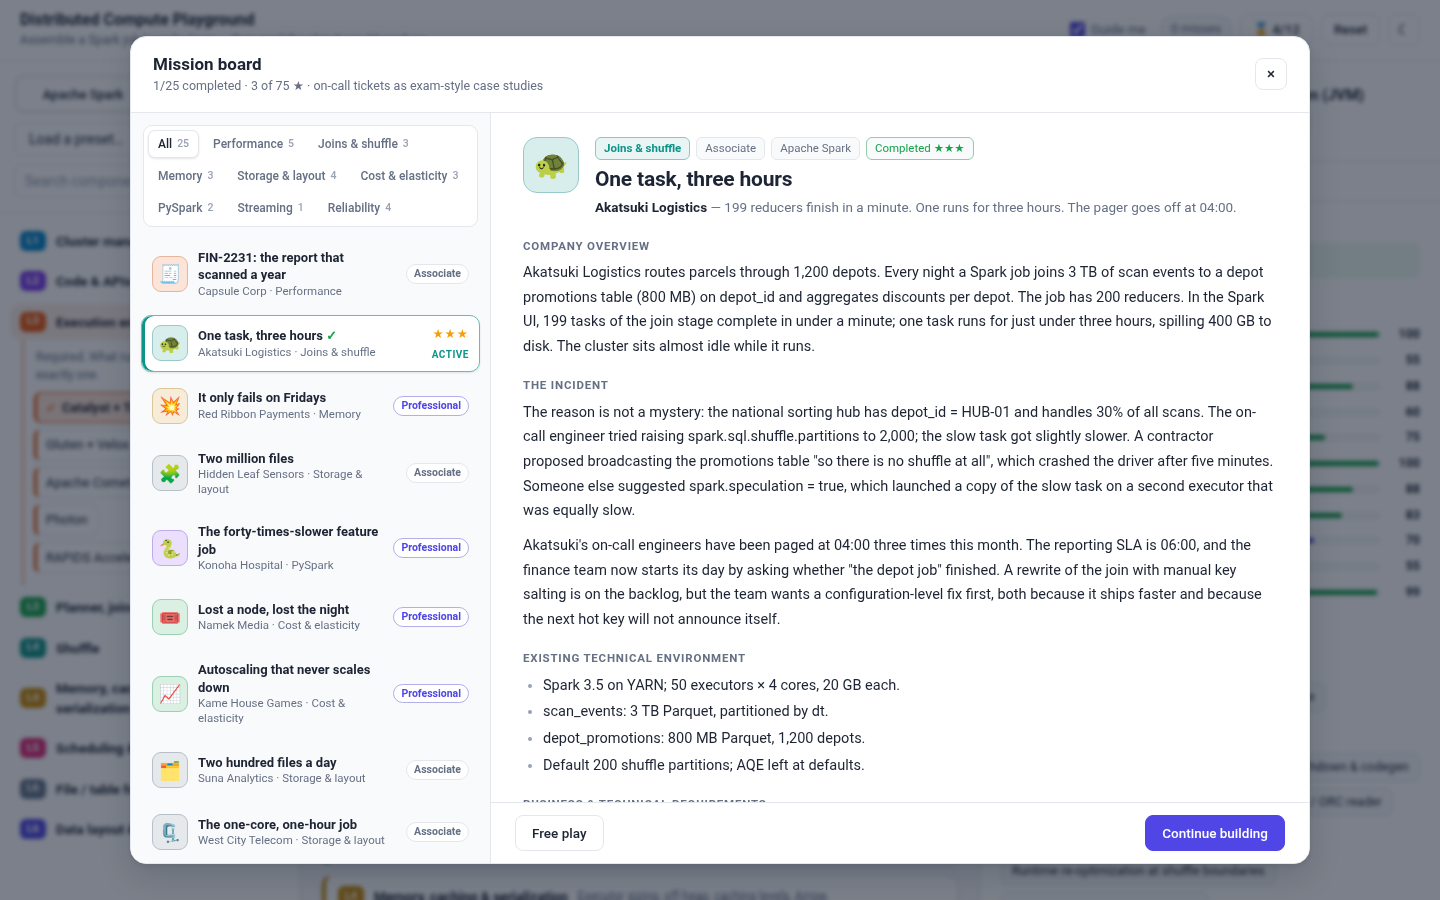
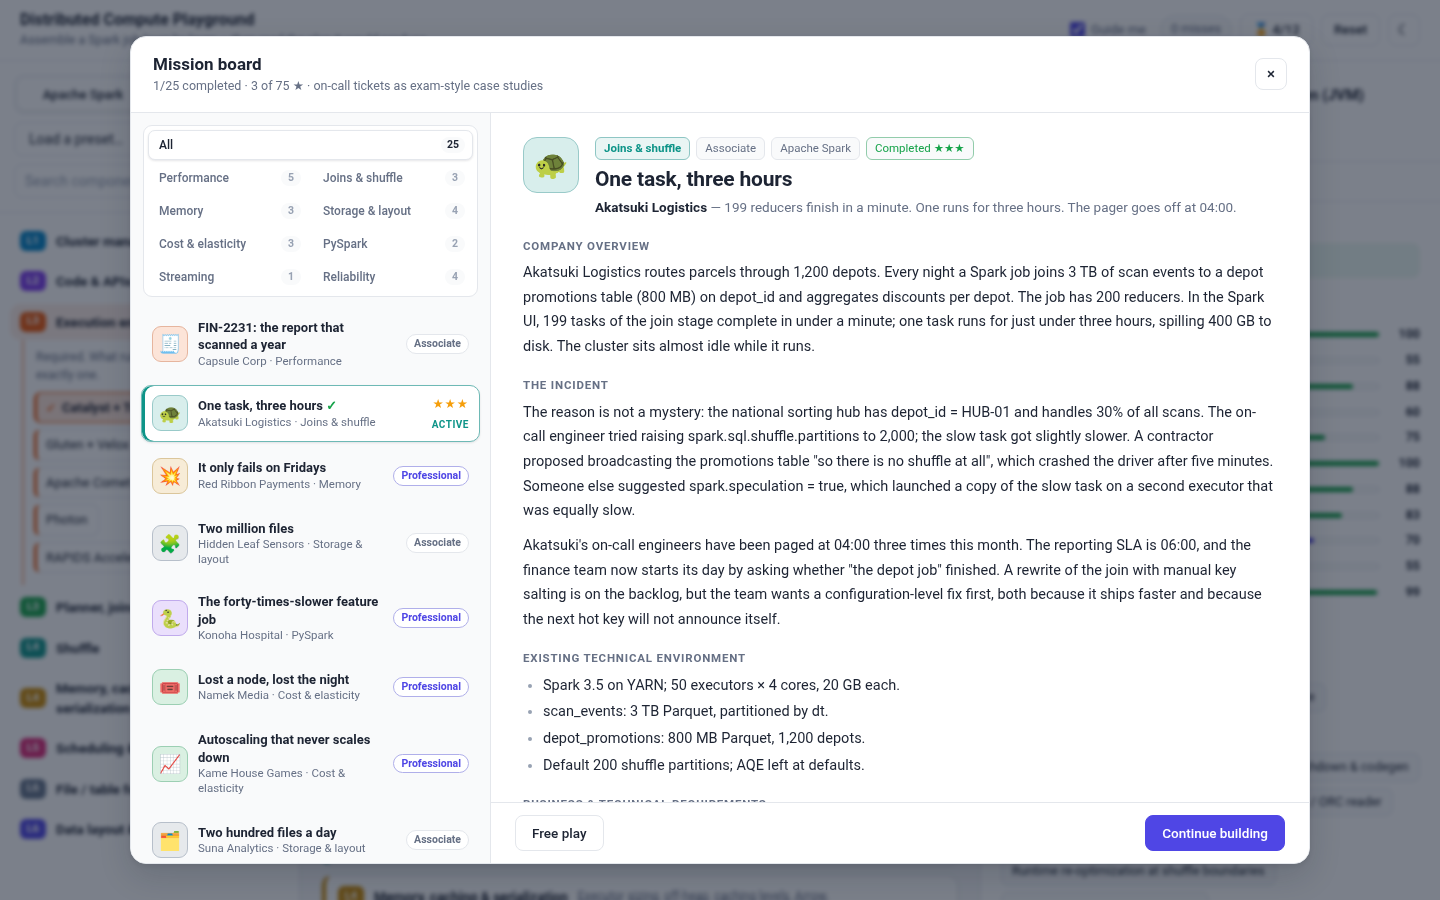
Mission board: align category filters in a 2-column grid
The category chips wrapped into ragged rows. They now sit in an aligned
two-column grid with 'All' spanning the first row and counts rendered as
right-aligned pills.

diff --git a/src/styles/app.css b/src/styles/app.css
@@ -237,10 +237,13 @@ p { margin: 0; }
 .dlg-body { flex: 1; min-height: 0; display: grid; grid-template-columns: 360px 1fr; }
 
 .mlist { display: flex; flex-direction: column; min-height: 0; border-right: 1px solid var(--line); background: var(--panel-2); }
-.seg.fams { display: flex; flex-wrap: wrap; gap: 4px; padding: 4px; margin: 12px 12px 8px; background: var(--panel); }
-.seg.fams button { white-space: nowrap; font-size: 12px; padding: 4px 9px; display: inline-flex; align-items: center; gap: 5px; border: 1px solid transparent; }
+.seg.fams { display: grid; grid-template-columns: 1fr 1fr; gap: 3px; padding: 4px; margin: 12px 12px 8px; background: var(--panel); }
+.seg.fams button { white-space: nowrap; min-width: 0; font-size: 12px; padding: 5px 7px 5px 10px; display: flex; align-items: center; justify-content: space-between; gap: 8px; border: 1px solid transparent; text-align: left; }
+.seg.fams button:first-child { grid-column: 1 / -1; }
+.seg.fams button:hover { color: var(--text); background: var(--panel-2); }
 .seg.fams button.on { border-color: var(--line); }
-.seg.fams small { font-size: 10.5px; color: var(--faint); }
+.seg.fams small { flex: none; font-size: 10.5px; font-weight: 600; color: var(--faint); background: var(--panel-2); border-radius: 999px; min-width: 20px; padding: 0 6px; line-height: 16px; text-align: center; font-variant-numeric: tabular-nums; }
+.seg.fams button.on small { color: var(--text); }
 .mlist-items { flex: 1; overflow-y: auto; padding: 4px 10px 16px; display: grid; gap: 6px; align-content: start; }
 .mcard {
   display: flex; align-items: center; gap: 10px; width: 100%; text-align: left;
